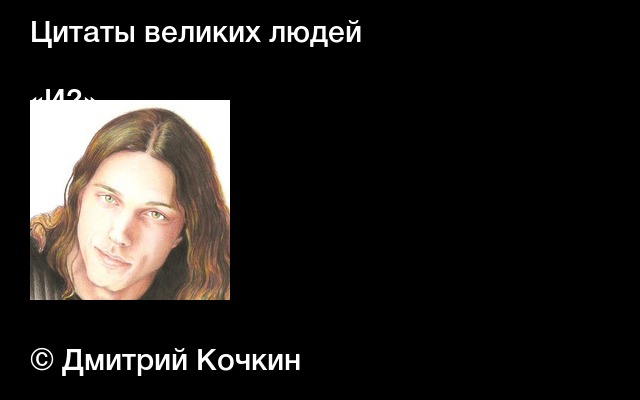
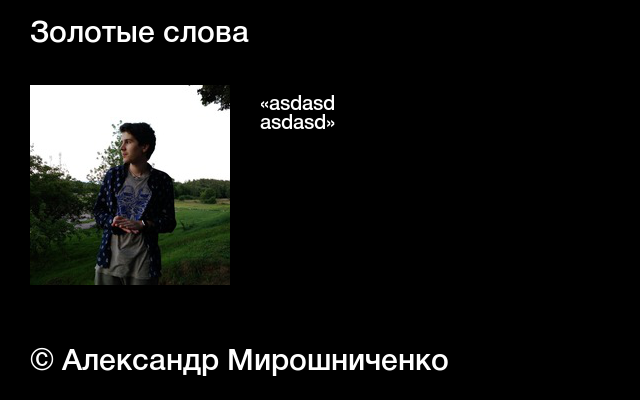
citgen

diff --git a/index.js b/index.js
@@ -1016,27 +1016,26 @@ updates.hear('/citgen', async(context) => {
 
 		download(imagekek[0][0].photo_200, 'ava.png', function(){
 			console.log('done');
-		});
-
-	
-
-		gm(640,400, "#000000")
-		.fill('#FFFFFF')
-		.font('HelveticaNeue.ttf')
-		.fontSize(30)
-		.drawText(30,42, 'Цитаты великих людей')
-		.in('-page', '+30+100')
-		.in('ava.png')
-		.drawText(30,110,`«${text.join('\n')}»`)
-		.drawText(30,370, `© ${imagekek[0][0].first_name} ${imagekek[0][0].last_name}`)
-		.mosaic() 
-		.write('rofl.png', async function(err) {
+			gm(640,400, "#000000")
+			.fill('#FFFFFF')
+			.font('HelveticaNeue.ttf')
+			.fontSize(30)
+			.drawText(30,42, 'Золотые слова')
+			.in('-page', '+30+85')
+			.in('ava.png')
+			.fontSize(20)
+			.drawText(260,110,`«${text.join('\n')}»`)
+			.fontSize(30)
+			.drawText(30,370, `© ${imagekek[0][0].first_name} ${imagekek[0][0].last_name}`)
+			.mosaic() 
+			.write('rofl.png', async function(err) {
 			if(err) {
 				console.log(err)
 			}
 			await context.sendPhoto('rofl.png');
 			await fs.unlink('rofl.png');
 		})
+		});
 	} else {
 		await context.send('А че цитгенить то будем?')
 	}
